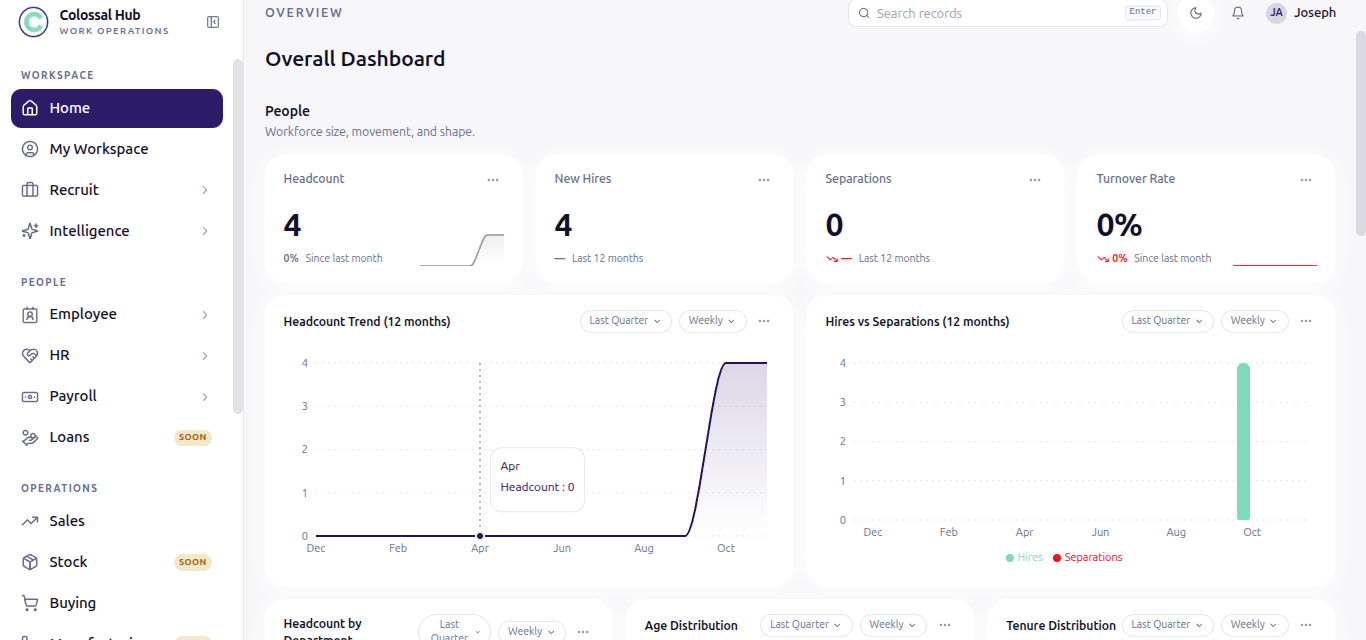
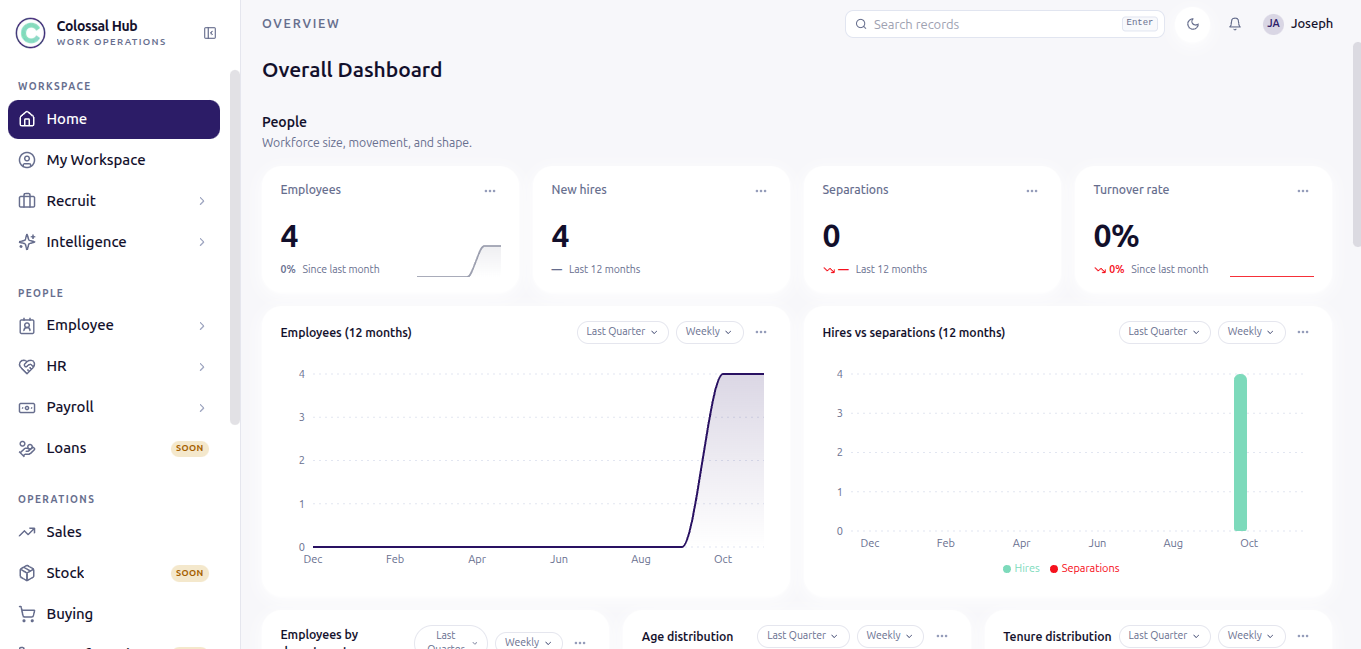
Swap in the retaken dashboard screenshot (Employees labels)
Replaces the pre-rename capture: KPI tiles and charts now read
Employees rather than Headcount, matching brief 4.4. Top loading-bar
line trimmed; Image dimensions follow the new crop.

diff --git a/src/components/DashboardMock.tsx b/src/components/DashboardMock.tsx
@@ -29,8 +29,8 @@ export default function DashboardMock() {
           <Image
             src="/screens/overall-dashboard.png"
             alt="The Colossal Hub overall dashboard: employee numbers, new hires, turnover and 12-month movement charts."
-            width={1366}
-            height={640}
+            width={1361}
+            height={649}
             priority
             className="w-full"
           />
